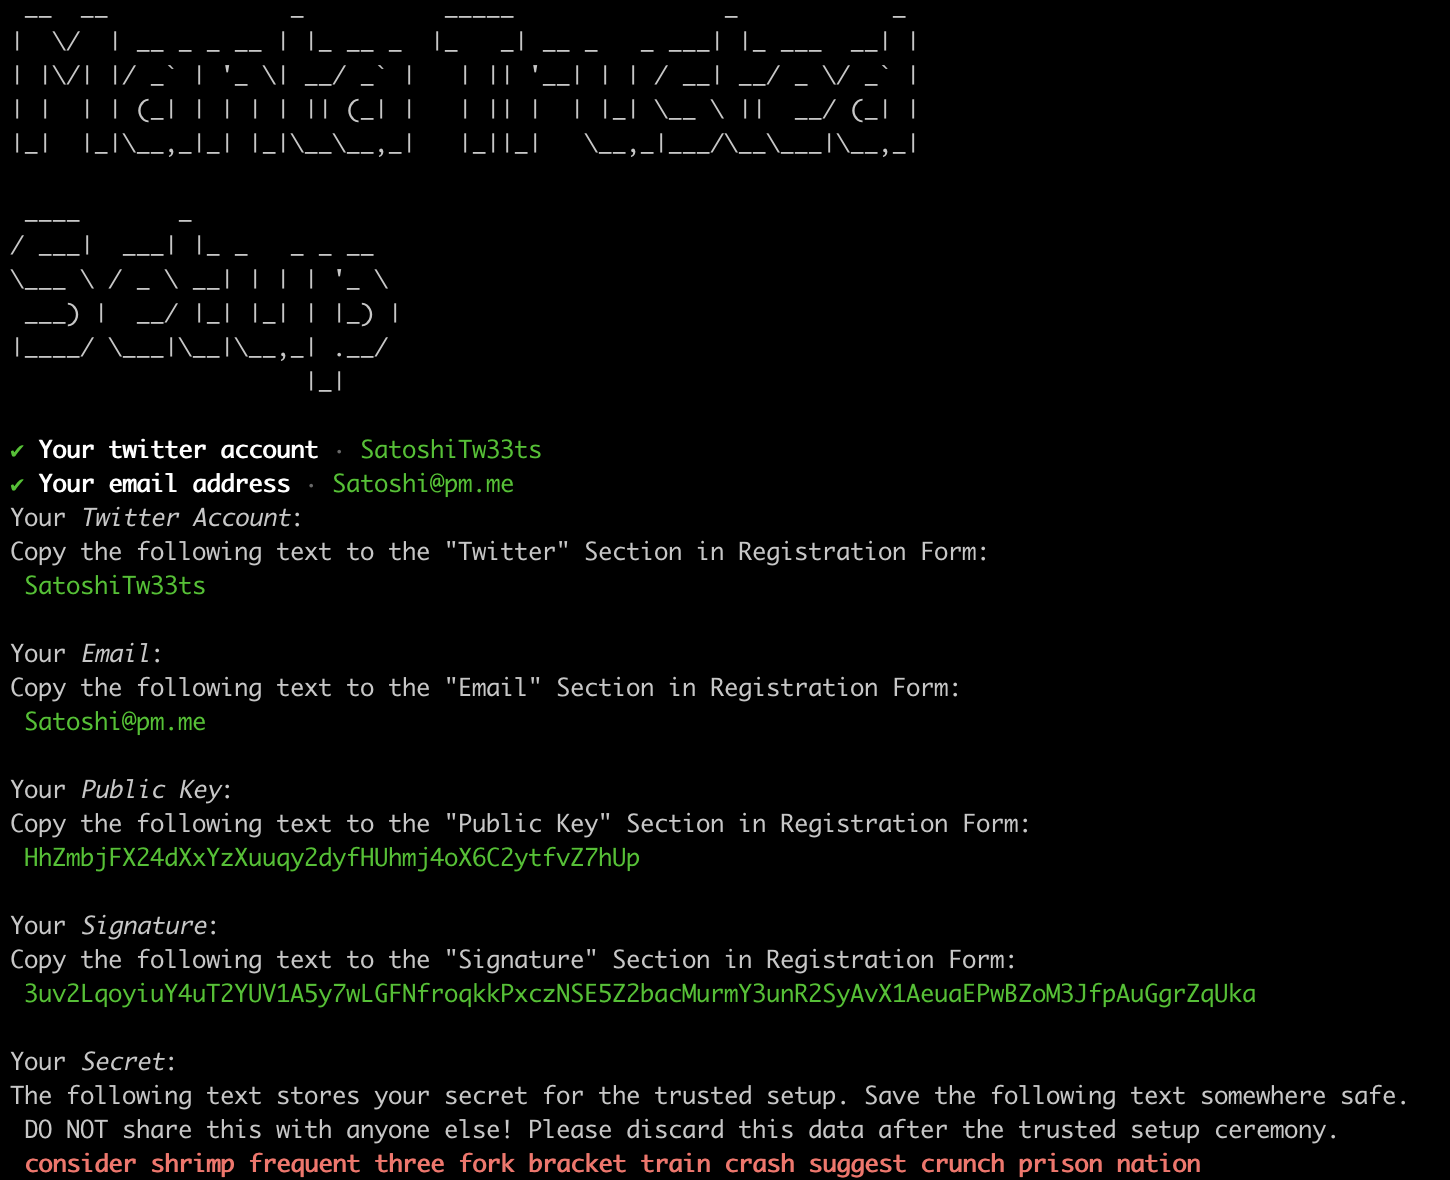
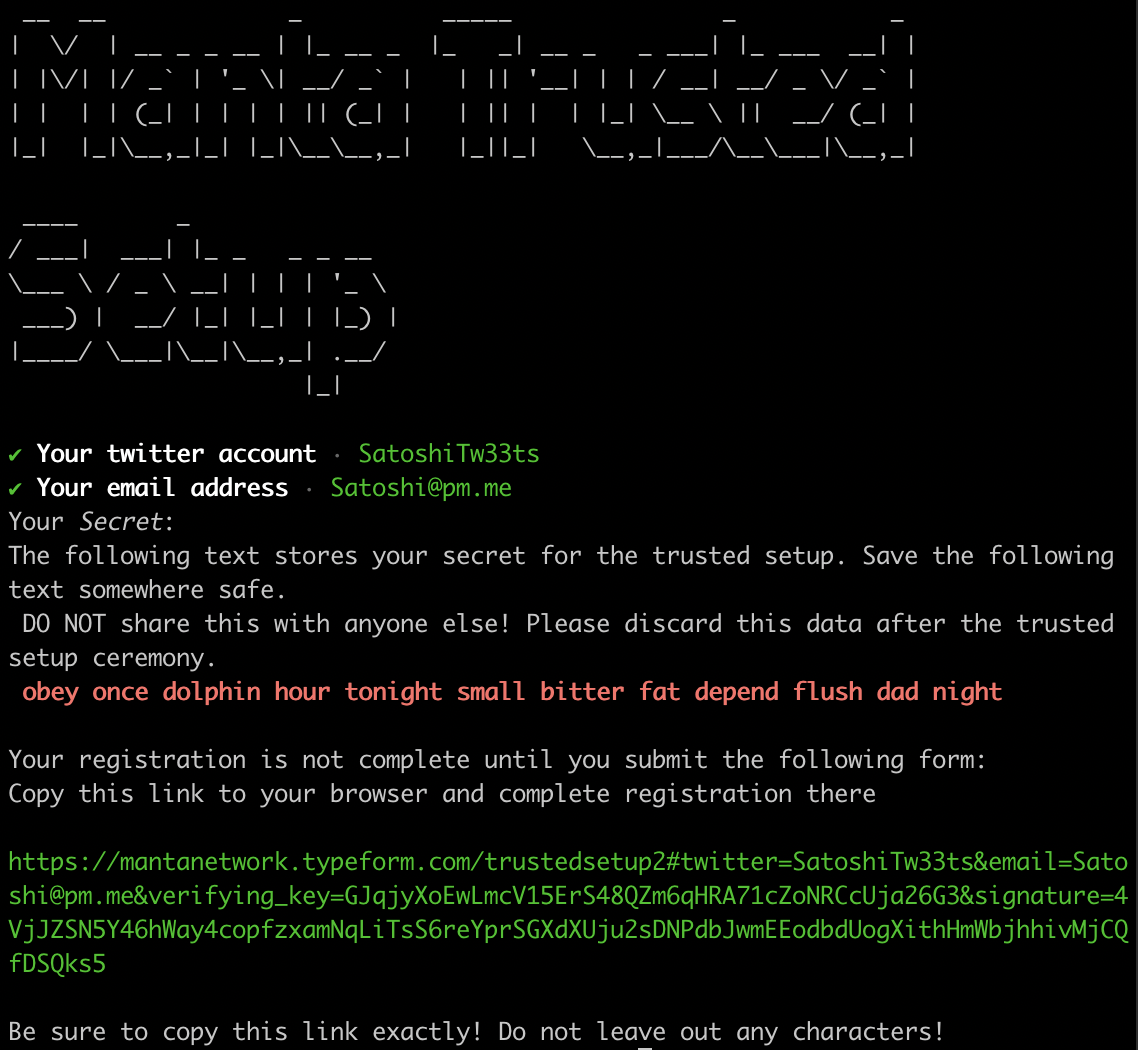
Trusted Setup Client v2 (#268)
* feat: customized registration link
* changelog
* update readme
* update registry screenshot, link
* clippy
* fmt
* undo fmt change
* fix: clippy false positive
* Update ci.yml
* add gitignore for data
* clippy format warnings
* fmt
* fix clippy

diff --git a/manta-trusted-setup/src/groth16/ceremony/config/ppot.rs b/manta-trusted-setup/src/groth16/ceremony/config/ppot.rs
@@ -306,24 +306,9 @@ pub fn generate_keys(bytes: &[u8]) -> Option<(ed25519::SecretKey, ed25519::Publi
 /// Registers a participant.
 #[inline]
 pub fn register(twitter_account: String, email: String) {
-    println!(
-        "Your {}: \nCopy the following text to the \"Twitter\" Section in Registration Form:\n {}\n",
-        "Twitter Account".italic(),
-        twitter_account.green(),
-    );
-    println!(
-        "Your {}: \nCopy the following text to the \"Email\" Section in Registration Form:\n {}\n",
-        "Email".italic(),
-        email.green(),
-    );
     let mnemonic = Mnemonic::new(MnemonicType::Words12, Language::English);
     let seed = Seed::new(&mnemonic, "manta-trusted-setup");
     let keypair = generate_keys(seed.as_bytes()).expect("Should generate a key pair.");
-    println!(
-        "Your {}: \nCopy the following text to the \"Public Key\" Section in Registration Form:\n {}\n",
-        "Public Key".italic(),
-        bs58::encode(keypair.1).into_string().green(),
-    );
     let signature = sign::<Ed25519<RawMessage<u64>>, _>(
         &keypair.0,
         Default::default(),
@@ -334,17 +319,25 @@ pub fn register(twitter_account: String, email: String) {
     )
     .expect("Signing message should succeed.");
     println!(
-        "Your {}: \nCopy the following text to the \"Signature\" Section in Registration Form: \n {}\n",
-        "Signature".italic(),
-        bs58::encode(signature).into_string().green()
-    );
-    println!(
         "Your {}: \nThe following text stores your secret for the trusted setup. \
          Save the following text somewhere safe. \n DO NOT share this with anyone else! \
-         Please discard this data after the trusted setup ceremony.\n {}",
+         Please discard this data after the trusted setup ceremony.\n {} \n",
         "Secret".italic(),
         mnemonic.phrase().red().bold(),
     );
+
+    println!("Your registration is not complete until you submit the following form: \nCopy this link to your browser and complete registration there \n \n{}\nBe sure to copy this link exactly! Do not leave out any characters!", register_link(twitter_account, email, bs58::encode(keypair.1).into_string(), bs58::encode(signature).into_string()).green());
+}
+
+/// Generates link to registration form with Twitter, Email, Public Key,
+/// Signature fields pre-filled.
+pub fn register_link(
+    twitter: String,
+    email: String,
+    public_key: String,
+    signature: String,
+) -> String {
+    format!("https://mantanetwork.typeform.com/trustedsetup2#twitter={twitter}&email={email}&verifying_key={public_key}&signature={signature} \n")
 }
 
 /// Prompts the client information and get client keys.
@@ -457,7 +450,7 @@ where
                              Estimated Waiting Time: {}.",
                                 style("[1/6]").bold(),
                                 style(position).bold().red(),
-                                style(format!("{:?} min", minutes)).bold().red(),
+                                style(format!("{minutes:?} min")).bold().red(),
                             );
                         } else {
                             println!(
@@ -499,8 +492,8 @@ where
     let contribution_hash = hex::encode(C::contribution_hash(&response));
     let tweet = style(format!(
         "I made contribution number {} to the #MantaNetworkTrustedSetup! \
-         My contribution's hash is {}",
-        response.index, contribution_hash
+         My contribution's hash is {contribution_hash}",
+        response.index
     ))
     .bold()
     .blue();
@@ -735,7 +728,7 @@ impl Circuits<Self> for Config {
         for i in 0..3 {
             let mut cs = R1CS::for_contexts();
             dummy_circuit(&mut cs);
-            circuits.push((cs, format!("{}_{}", "dummy", i)));
+            circuits.push((cs, format!("dummy_{i}")));
         }
         circuits
     }
@@ -759,7 +752,7 @@ where
     E: Display,
 {
     if let Err(e) = result {
-        println!("{} {}", style("[ERROR]").bold().red(), e);
+        println!("{} {e}", style("[ERROR]").bold().red());
     }
 }
 

diff --git a/manta-accounting/src/fs/serde.rs b/manta-accounting/src/fs/serde.rs
@@ -85,9 +85,9 @@ pub mod ser {
         #[inline]
         fn fmt(&self, f: &mut fmt::Formatter) -> fmt::Result {
             match self {
-                Self::UnsupportedFeature(feature) => write!(f, "Unsupported Feature: {}", feature),
-                Self::Serialization(msg) => write!(f, "Serialization Error: {}", msg),
-                Self::Io(err) => write!(f, "File I/O Error: {}", err),
+                Self::UnsupportedFeature(feature) => write!(f, "Unsupported Feature: {feature}"),
+                Self::Serialization(msg) => write!(f, "Serialization Error: {msg}"),
+                Self::Io(err) => write!(f, "File I/O Error: {err}"),
             }
         }
     }
@@ -109,7 +109,7 @@ pub mod ser {
         where
             T: Display,
         {
-            Self::Serialization(format!("{}", msg))
+            Self::Serialization(format!("{msg}"))
         }
     }
 }
@@ -717,15 +717,15 @@ pub mod de {
         #[inline]
         fn fmt(&self, f: &mut fmt::Formatter) -> fmt::Result {
             match self {
-                Self::Io(err) => write!(f, "File I/O Error: {}", err),
+                Self::Io(err) => write!(f, "File I/O Error: {err}"),
                 Self::MissingBytes => write!(f, "Missing Bytes"),
-                Self::UnsupportedFeature(feature) => write!(f, "Unsupported Feature: {}", feature),
-                Self::InvalidBoolTag(tag) => write!(f, "Invalid Bool Tag: {}", tag),
-                Self::InvalidOptionTag(tag) => write!(f, "Invalid Option Tag: {}", tag),
-                Self::InvalidCharacter(integer) => write!(f, "Invalid Character: {}", integer),
-                Self::LargeLengthTag(len) => write!(f, "Large Length Tag: {}", len),
-                Self::FromUtf8Error(err) => write!(f, "From UTF-8 Error: {}", err),
-                Self::Deserialization(msg) => write!(f, "Deserialization Error: {}", msg),
+                Self::UnsupportedFeature(feature) => write!(f, "Unsupported Feature: {feature}"),
+                Self::InvalidBoolTag(tag) => write!(f, "Invalid Bool Tag: {tag}"),
+                Self::InvalidOptionTag(tag) => write!(f, "Invalid Option Tag: {tag}"),
+                Self::InvalidCharacter(integer) => write!(f, "Invalid Character: {integer}"),
+                Self::LargeLengthTag(len) => write!(f, "Large Length Tag: {len}"),
+                Self::FromUtf8Error(err) => write!(f, "From UTF-8 Error: {err}"),
+                Self::Deserialization(msg) => write!(f, "Deserialization Error: {msg}"),
             }
         }
     }
@@ -747,7 +747,7 @@ pub mod de {
         where
             T: Display,
         {
-            Self::Deserialization(format!("{}", msg))
+            Self::Deserialization(format!("{msg}"))
         }
     }
 

diff --git a/manta-trusted-setup/src/groth16/ppot/serialization.rs b/manta-trusted-setup/src/groth16/ppot/serialization.rs
@@ -814,7 +814,7 @@ mod tests {
             match <PpotCeremony as Deserializer<G1Affine, G1>>::deserialize_compressed(&mut temp) {
                 Ok(point) => g1_deser.push(point),
                 Err(e) => {
-                    println!("Error {:?} occurred on point {:?}", e, i);
+                    println!("Error {e:?} occurred on point {i:?}");
                 }
             }
         }
@@ -844,7 +844,7 @@ mod tests {
             {
                 Ok(point) => g1_deser.push(point),
                 Err(e) => {
-                    println!("Error {:?} occurred on point {:?}", e, i);
+                    println!("Error {e:?} occurred on point {i:?}");
                 }
             }
         }
@@ -873,7 +873,7 @@ mod tests {
             match <PpotCeremony as Deserializer<G2Affine, G2>>::deserialize_compressed(&mut temp) {
                 Ok(point) => g2_deser.push(point),
                 Err(e) => {
-                    println!("Error {:?} occurred on point {:?}", e, i);
+                    println!("Error {e:?} occurred on point {i:?}");
                 }
             }
         }
@@ -903,7 +903,7 @@ mod tests {
             {
                 Ok(point) => g2_deser.push(point),
                 Err(e) => {
-                    println!("Error {:?} occurred on point {:?}", e, i);
+                    println!("Error {e:?} occurred on point {i:?}");
                 }
             }
         }

diff --git a/manta-trusted-setup/src/bin/groth16_phase2_client.rs b/manta-trusted-setup/src/bin/groth16_phase2_client.rs
@@ -67,7 +67,7 @@ impl Arguments {
     /// Takes command line arguments and executes the corresponding operations.
     #[inline]
     pub fn run(self) -> Result<(), CeremonyError<Config>> {
-        println!("{}", TITLE);
+        println!("{TITLE}");
         match self.command {
             Command::Register => {
                 let twitter_account = Input::with_theme(&ColorfulTheme::default())
@@ -84,7 +84,7 @@ impl Arguments {
             Command::Contribute => {
                 let (sk, pk) = match get_client_keys() {
                     Ok(keys) => keys,
-                    Err(e) => panic!("Error while extracting the client keys: {}", e),
+                    Err(e) => panic!("Error while extracting the client keys: {e}"),
                 };
                 match tokio::runtime::Builder::new_multi_thread()
                     .worker_threads(4)
@@ -97,7 +97,7 @@ impl Arguments {
                         runtime
                             .block_on(async { client_contribute::<Config>(sk, pk, self.url).await })
                     }
-                    Err(e) => panic!("I/O Error while setting up the tokio Runtime: {:?}", e),
+                    Err(e) => panic!("I/O Error while setting up the tokio Runtime: {e:?}"),
                 }
             }
         }

diff --git a/manta-trusted-setup/src/groth16/ceremony/mod.rs b/manta-trusted-setup/src/groth16/ceremony/mod.rs
@@ -194,8 +194,8 @@ where
         match self {
             Self::NotRegistered => write!(
                 f,
-                "Registry update is taking longer than expected. \
-                 Please make sure you have submitted your registration form and try again later.",
+                "Please make sure you have submitted your registration form. \
+                 Check whether the ceremony has begun at https://ceremony.manta.network.",
             ),
             Self::AlreadyContributed => {
                 write!(
@@ -209,7 +209,7 @@ where
                 "Unable to connect to the ceremony server: timeout. Please try again later.",
             ),
             Self::Network { message } => {
-                write!(f, "Unable to connect to the ceremony server: {}", message)
+                write!(f, "Unable to connect to the ceremony server: {message}")
             }
             err => write!(
                 f,

diff --git a/manta-accounting/src/asset.rs b/manta-accounting/src/asset.rs
@@ -21,6 +21,8 @@
 //! [`Asset`] with a particular [`AssetId`] we use [`AssetMetadata`] to assign a symbol and decimals
 //! for human-readable display purposes.
 
+#![allow(clippy::uninlined_format_args)] // NOTE: Clippy false positive https://github.com/rust-lang/rust-clippy/issues/9715 on Display implementation on Asset below
+
 use alloc::{
     collections::btree_map::{BTreeMap, Entry as BTreeMapEntry},
     format,
@@ -1166,7 +1168,7 @@ impl AssetMetadata {
         let value_base_units = value.0 / (10u128.pow(self.decimals));
         let fractional_digits = value.0 / (10u128.pow(self.decimals - FRACTIONAL_DIGITS))
             % (10u128.pow(FRACTIONAL_DIGITS));
-        format!("{}.{:0>3}", value_base_units, fractional_digits)
+        format!("{value_base_units}.{fractional_digits:0>3}")
     }
 
     /// Returns a string formatting of `value` interpreted using `self` as the metadata including

diff --git a/manta-parameters/src/lib.rs b/manta-parameters/src/lib.rs
@@ -386,14 +386,14 @@ mod test {
     fn download_all_data() -> Result<()> {
         let current_branch = get_current_branch()?;
         let directory = tempfile::tempdir()?;
-        println!("[INFO] Temporary Directory: {:?}", directory);
+        println!("[INFO] Temporary Directory: {directory:?}");
         let checksums = parse_checkfile("data.checkfile")?;
         let directory_path = directory.path();
         for file in walkdir::WalkDir::new("data") {
             let file = file?;
             let path = file.path();
             if !path.is_dir() {
-                println!("[INFO] Checking path: {:?}", path);
+                println!("[INFO] Checking path: {path:?}");
                 let target = directory_path.join(path);
                 fs::create_dir_all(target.parent().unwrap())?;
                 github::download(

diff --git a/manta-accounting/src/fs/mod.rs b/manta-accounting/src/fs/mod.rs
@@ -385,8 +385,8 @@ pub mod cocoon {
         #[inline]
         fn fmt(&self, f: &mut fmt::Formatter) -> fmt::Result {
             match self {
-                Self::IoError(err) => write!(f, "File I/O Error: {}", err),
-                Self::Cocoon(err) => write!(f, "Cocoon Error: {:?}", err),
+                Self::IoError(err) => write!(f, "File I/O Error: {err}"),
+                Self::Cocoon(err) => write!(f, "Cocoon Error: {err:?}"),
             }
         }
     }

diff --git a/manta-pay/src/simulation/mod.rs b/manta-pay/src/simulation/mod.rs
@@ -143,7 +143,7 @@ impl Simulation {
         assert!(
             self.config()
                 .run(ledger, signer, ChaCha20Rng::from_entropy, |event| {
-                    let event = format!("{:?}\n", event);
+                    let event = format!("{event:?}\n");
                     async move {
                         let _ = write_stdout(event.as_bytes()).await;
                     }

diff --git a/manta-crypto/src/accumulator.rs b/manta-crypto/src/accumulator.rs
@@ -373,7 +373,7 @@ pub mod test {
             .collect::<Vec<_>>();
         for (i, x) in outputs.iter().enumerate() {
             for (j, y) in outputs.iter().enumerate().skip(i + 1) {
-                assert_ne!(x, y, "Found matching outputs at {:?} and {:?}.", i, j)
+                assert_ne!(x, y, "Found matching outputs at {i:?} and {j:?}.")
             }
         }
     }

diff --git a/manta-pay/src/crypto/poseidon/round_constants.rs b/manta-pay/src/crypto/poseidon/round_constants.rs
@@ -81,6 +81,7 @@ mod test {
     use crate::crypto::constraint::arkworks::Fp;
     use manta_crypto::arkworks::{bls12_381::Fr, ff::field_new};
 
+    #[allow(clippy::needless_borrow)] // NOTE: Clippy false positive https://github.com/rust-lang/rust-clippy/issues/9710
     /// Checks if [`GrainLFSR`] matches hardcoded sage outputs.
     #[test]
     fn grain_lfsr_is_consistent() {

diff --git a/manta-crypto/src/constraint.rs b/manta-crypto/src/constraint.rs
@@ -332,7 +332,7 @@ pub mod measure {
             let before = self.base.measure();
             let value = f(self.base);
             self.measurements.push((
-                format!("{}", label),
+                format!("{label}"),
                 self.base
                     .measure()
                     .checked_sub(before)
